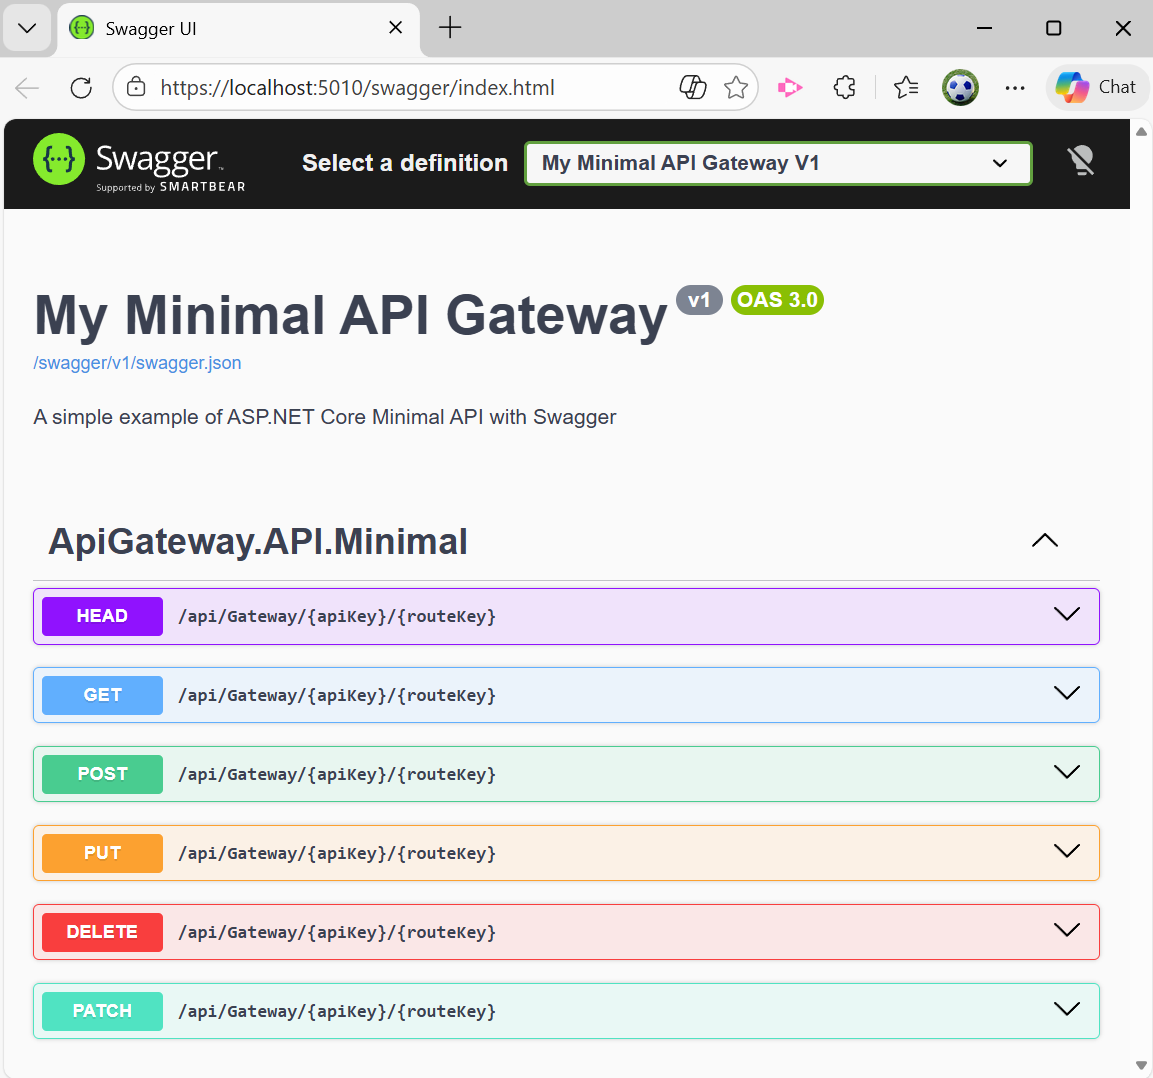
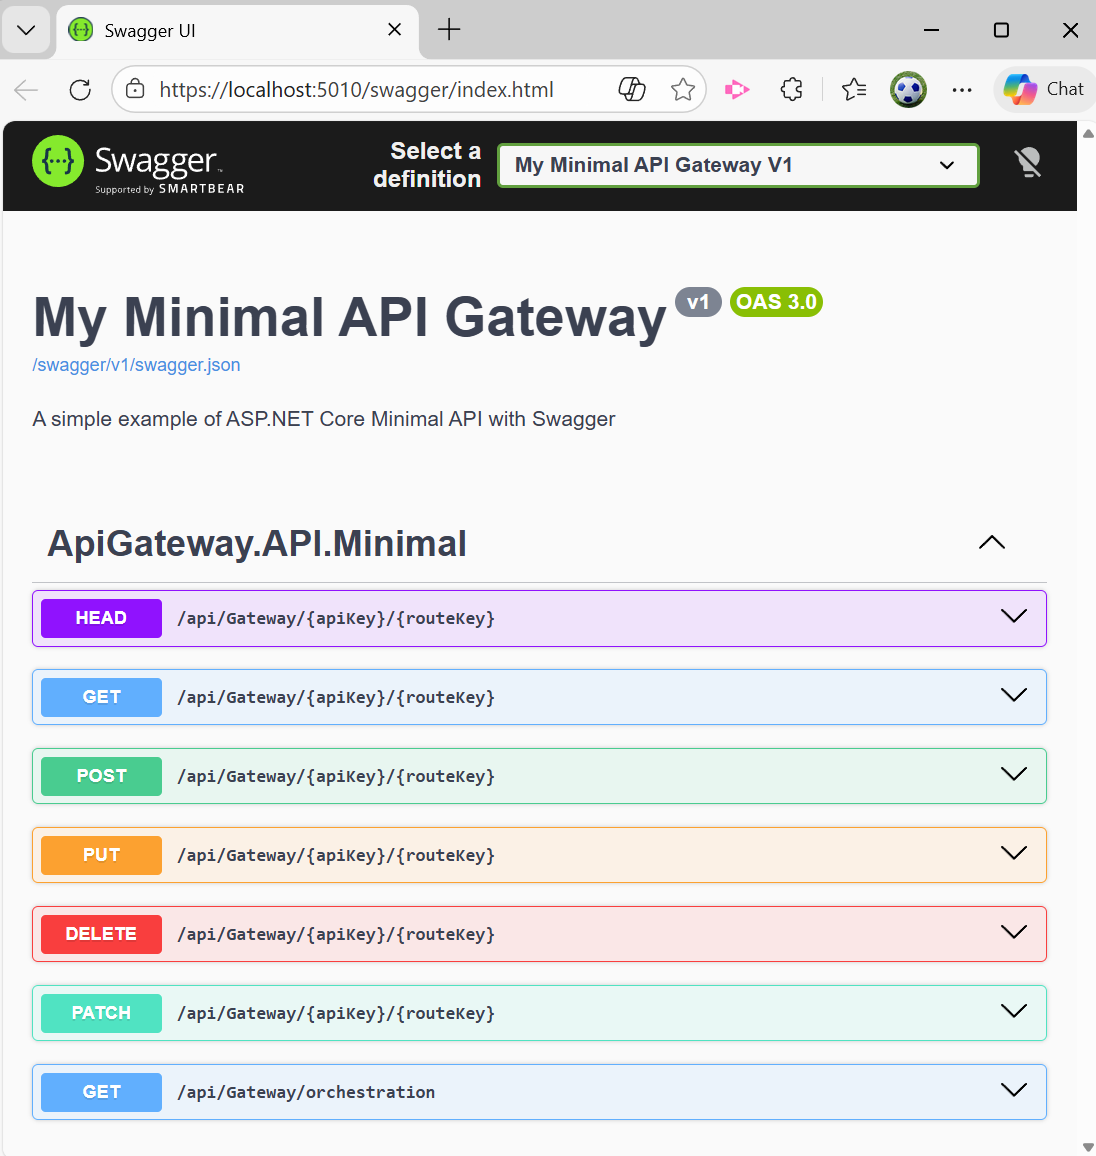
added get orchestration minimal api endpoint & tests.

diff --git a/AspNetCore.ApiGateway.Minimal/Orchestration.cs b/AspNetCore.ApiGateway.Minimal/Orchestration.cs
@@ -18,9 +18,7 @@ namespace AspNetCore.ApiGateway.Minimal
 
     public enum OrchestationType
     {
-        Api,
-        Hub,
-        EventSource
+        Api
     }
 
     public class ApiOrchestration : Orchestration
@@ -32,28 +30,6 @@ namespace AspNetCore.ApiGateway.Minimal
 
         [JsonPropertyOrder(2)]
         public IEnumerable<Route> ApiRoutes { get; set; }        
-    }
-
-    public class HubOrchestration : Orchestration
-    {
-        public HubOrchestration()
-        {
-            OrchestrationType = OrchestationType.Hub;
-        }
-
-        [JsonPropertyOrder(2)]
-        public IEnumerable<HubRoute> HubRoutes { get; set; }
-    }
-
-    public class EventSourceOrchestration : Orchestration
-    {
-        public EventSourceOrchestration()
-        {
-            OrchestrationType = OrchestationType.EventSource;
-        }
-
-        [JsonPropertyOrder(2)]
-        public IEnumerable<EventSourceRoute> EventSourceRoutes { get; set; }
     }
 
     public class RouteBase
@@ -76,41 +52,4 @@ namespace AspNetCore.ApiGateway.Minimal
         [JsonPropertyOrder(6)]
         public JsonSchema ResponseJsonSchema { get; set; }
     }
-
-    public class HubRoute : RouteBase
-    {
-        [JsonPropertyOrder(3)]
-        public string InvokeMethod { get; set; }
-
-        [JsonPropertyOrder(4)]
-        public string ReceiveMethod { get; set; }
-
-        [JsonPropertyOrder(5)]
-        public string ReceiveGroup { get; set; }
-
-        [JsonPropertyOrder(6)]
-        public string BroadcastType { get; set; }
-
-        [JsonPropertyOrder(7)]
-        public IEnumerable<string> ReceiveParameterTypes { get; set; }
-    }
-
-    public class EventSourceRoute : RouteBase
-    {
-        [JsonPropertyOrder(3)]
-        public string Type { get; set; }
-
-        [JsonPropertyOrder(4)]
-        public string ReceiveMethod { get; set; }
-
-        [JsonPropertyOrder(5)]
-        public string OperationType { get; set; }
-
-        [JsonPropertyOrder(6)]
-        public string StreamName { get; set; }
-
-        [JsonPropertyOrder(7)]
-        public string GroupName { get; set; }
-    }
-
 }

diff --git a/AspNetCore.ApiGateway.Minimal/MinimalAPIExtensions.cs b/AspNetCore.ApiGateway.Minimal/MinimalAPIExtensions.cs
@@ -121,6 +121,29 @@ namespace AspNetCore.ApiGateway.Application
                                      ));
             });
         }
+
+        public static RouteHandlerBuilder MapApiGatewayGetOrchestration(this IEndpointRouteBuilder app)
+        {
+
+            return app.MapGet("/api/Gateway/orchestration", async (HttpRequest requesty, IApiOrchestrator apiOrchestrator, string? apiKey = null, string? routeKey = null, string? parameters = null) =>
+            {
+                apiKey = apiKey?.ToLower();
+                routeKey = routeKey?.ToLower();
+
+                var orchestrations = await Task.FromResult(string.IsNullOrEmpty(apiKey) && string.IsNullOrEmpty(routeKey)
+                                                    ? apiOrchestrator.Orchestration
+                                                    : (!string.IsNullOrEmpty(apiKey) && string.IsNullOrEmpty(routeKey)
+                                                    ? apiOrchestrator.Orchestration?.Where(x => x.Api.Contains(apiKey.Trim()))
+                                                    : (string.IsNullOrEmpty(apiKey) && !string.IsNullOrEmpty(routeKey)
+                                                    ? apiOrchestrator.Orchestration?.Where(x => x.Routes.Any(y => y.Key.Contains(routeKey.Trim())))
+                                                                                     .Select(x => x.FilterRoutes(routeKey))
+                                                    : apiOrchestrator.Orchestration?.Where(x => x.Api.Contains(apiKey.Trim()))
+                                                                                     .Select(x => x.FilterRoutes(routeKey)))));
+
+
+                return Results.Ok(orchestrations);
+            });
+        }
     }
 
     public class ContractResolver

diff --git a/AspNetCore.ApiGateway.Tests/MinimalGatewayTests.cs b/AspNetCore.ApiGateway.Tests/MinimalGatewayTests.cs
@@ -286,5 +286,22 @@ namespace AspNetCore.ApiGateway.Tests
 
             Assert.True(response.StatusCode == HttpStatusCode.NotFound);
         }
+
+        [Fact]
+        public async Task Test_GetOrchestration_Pass()
+        {
+            var client = _apiInit.GatewayAPI.CreateClient();
+
+            //Gateway API Orchestration url
+            var gatewayUrl = "https://localhost:5010/api/Gateway/orchestration";
+
+            var response = await client.GetAsync(gatewayUrl);
+
+            response.EnsureSuccessStatusCode();
+
+            var orchestration = JsonSerializer.Deserialize<Orchestration[]>(await response.Content.ReadAsStringAsync());
+
+            Assert.True(orchestration.Length > 0);
+        }
     }
 }

diff --git a/AspNetCore.ApiGateway.Tests/MinimalGatewayClientTests.cs b/AspNetCore.ApiGateway.Tests/MinimalGatewayClientTests.cs
@@ -268,5 +268,22 @@ namespace AspNetCore.ApiGateway.Tests
             //Assert
             Assert.DoesNotContain(weatherTypes, x => x == "Freezing");
         }
+
+        [Fact]
+        public async Task Test_GetOrchestration_Pass()
+        {
+            //Arrange
+
+            //Get Client from dependency injection container
+            var client = _serviceProvider.GetRequiredService<IApiGatewayClient>();
+
+            var parameters = new ApiGatewayParameters();
+
+            //Act
+            var orchestrations = await client.GetOrchestrationAsync(parameters);
+
+            //Assert
+            Assert.Equal(2, orchestrations.Count());
+        }
     }
 }

diff --git a/ApiGateway.API.Minimal/Startup.cs b/ApiGateway.API.Minimal/Startup.cs
@@ -89,6 +89,7 @@ namespace ApiGateway.API.Minimal
                 endpoints.MapApiGatewayPut();
                 endpoints.MapApiGatewayDelete();
                 endpoints.MapApiGatewayPatch();
+                endpoints.MapApiGatewayGetOrchestration();
             });
         }
     }
